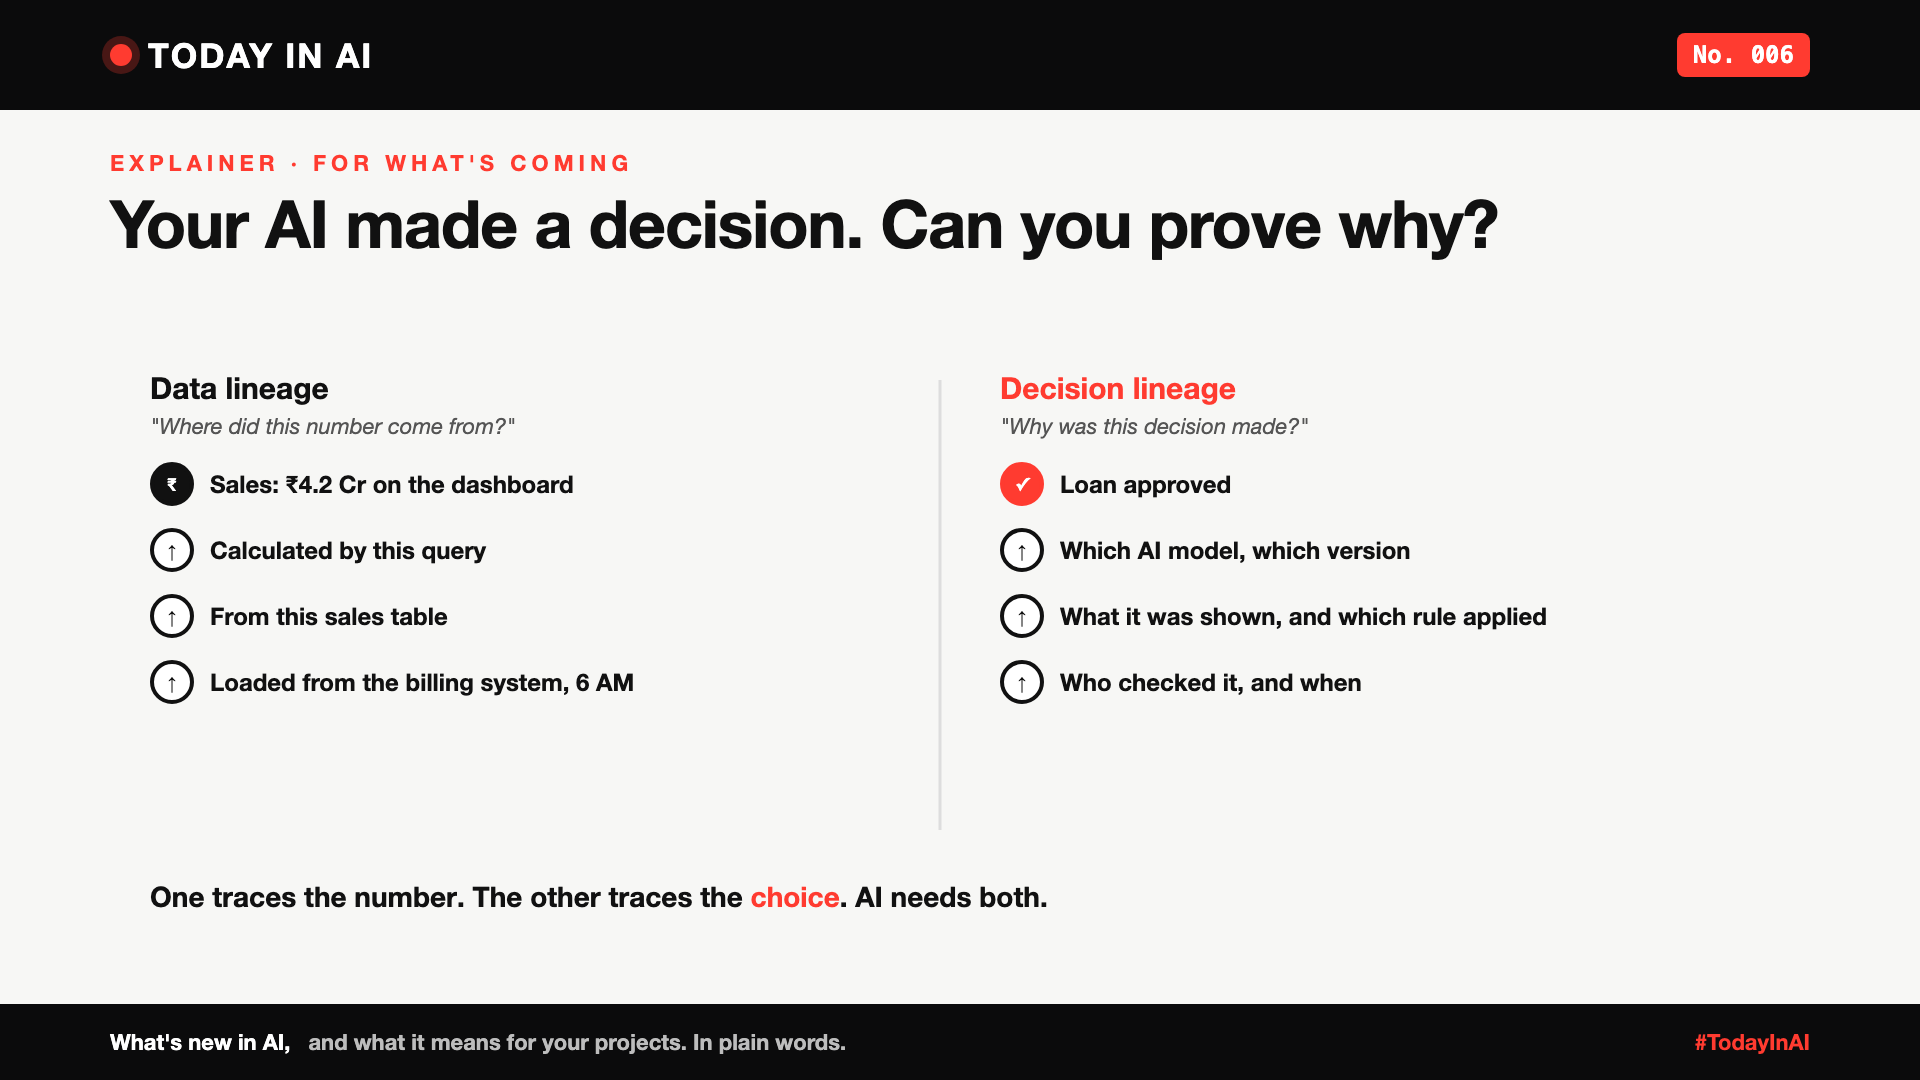
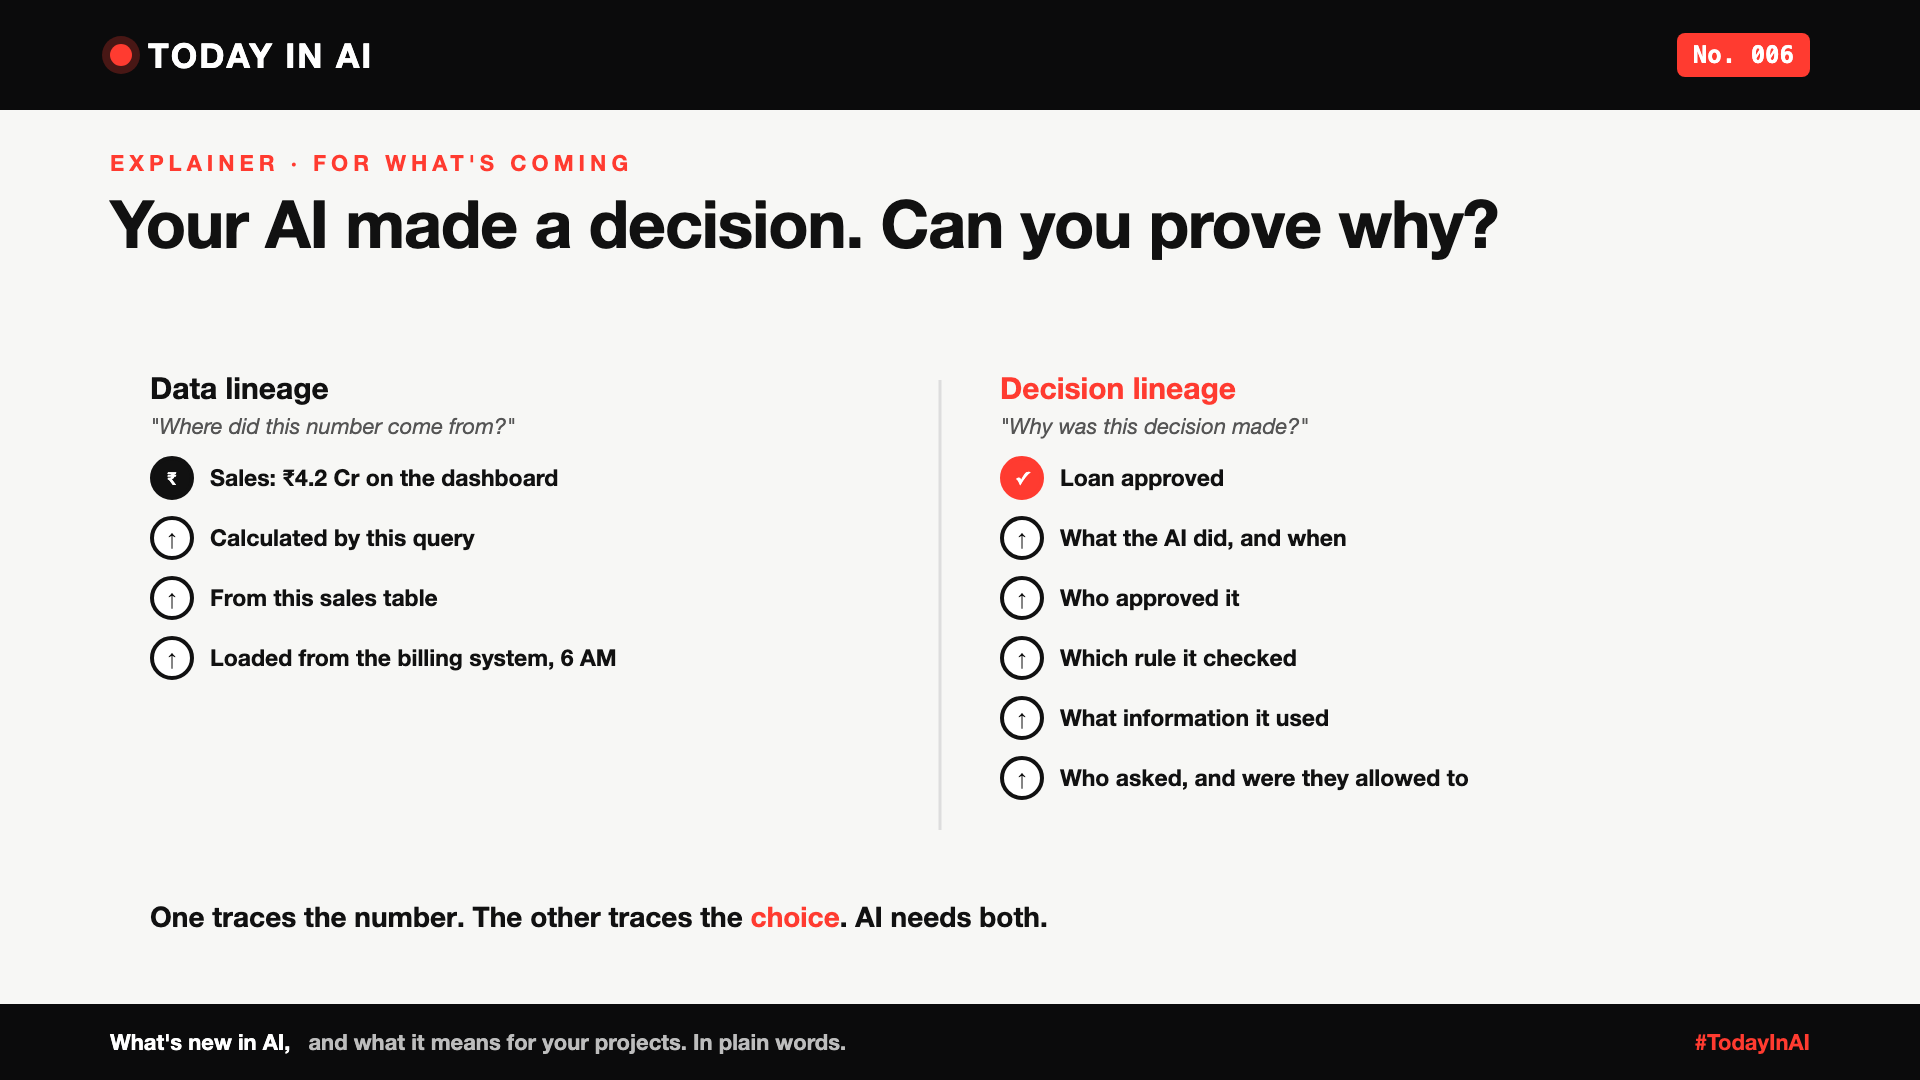
Today in AI No. 006: decision journey and decision record

diff --git a/20-today-in-ai/006-decision-lineage.md b/20-today-in-ai/006-decision-lineage.md
@@ -25,7 +25,18 @@ Sales on the dashboard: ₹4.2 Cr. It was calculated by this query, from this sa
 
 **Decision lineage** answers: "Why was this decision made?"
 
-A loan was approved. Which AI model made the call, and which version? What information did it see? Which rule applied? Did a person check it, and when? Follow that trail back, and you can explain the decision to a customer, an auditor or a judge.
+A loan was approved. To explain it, you need the whole journey, step by step:
+
+1. **The request.** Who asked, and were they allowed to?
+2. **The information.** What did the AI look at to decide?
+3. **The rule.** Which policy did it check, and did it pass?
+4. **The approval.** Did a person sign off, and who?
+5. **The action.** What exactly did the AI do, and when?
+6. **The result.** What happened in the end?
+
+Keep all six together for every decision, and you have a **decision record**: one place that explains the decision to a customer, an auditor or a judge, months later.
+
+Data lineage tracks how data flows. Decision lineage tracks why an action was allowed.
 
 ## What it means
 
@@ -46,6 +57,7 @@ Pick one decision an AI makes, or helps make, in your company. Ask: "If a custom
 
 - **Data lineage:** the trail showing where a number came from and how it was calculated.
 - **Decision lineage:** the trail showing how a decision was made: the inputs, the model, the rules and the people involved.
+- **Decision record:** everything about one decision kept together: who asked, what the AI used, which rule, who approved, what happened.
 - **Audit trail:** a record that lets someone check, later, what happened and why.
 
 ## References and credits
@@ -80,7 +92,7 @@ Your AI made a decision. Can you prove why?
 
 Companies have learned to trace where a number came from. That's data lineage.
 
-As AI starts making decisions, they'll also need to trace why a decision was made: which model, what it saw, which rule, who checked. That's decision lineage.
+As AI starts making decisions, they'll also need to trace why a decision was made: who asked, what the AI used, which rule it checked, who approved, and what it did. That's decision lineage.
 
 Like a cricket decision review: the replay shows the ball's path and the rule, not just "OUT". AI decisions will need the same replay.
 
